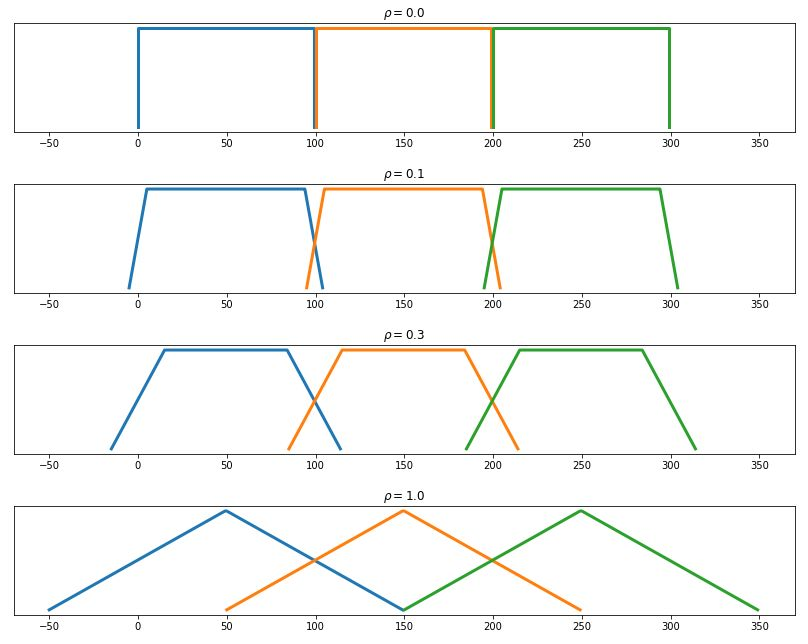
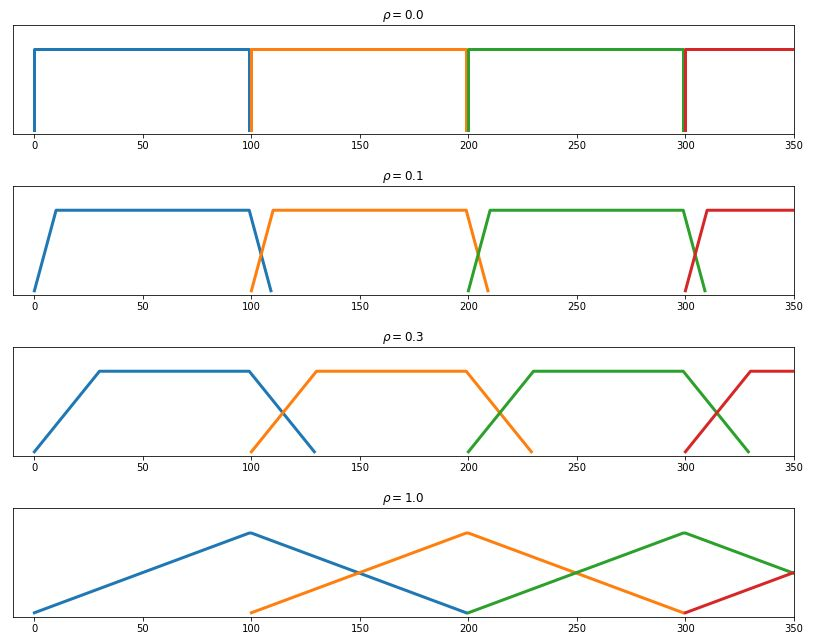
GitBook: [master] one page and 2 assets modified

diff --git a/docs/voice-transformers/granular-synthesis/gs-pre/README.md b/docs/voice-transformers/granular-synthesis/gs-pre/README.md
@@ -19,41 +19,45 @@ Call $$\rho$$the amount of overlap \(as a percentage\) between neighboring grain
 
 ![](../../../.gitbook/assets/grains.jpg)
 
-Note that the stride is constant for any amount of overlap and that each grain is centered at the same instants independently of overlap; this is the key observation that will allow us to implement granular synthesis in real time. 
+Note that the stride is constant for any amount of overlap and that each grain starts at the same instants independently of overlap; this is the key observation that will allow us to implement granular synthesis in real time. 
+
+### The periodic pattern
+
+We can express the content of the $$k$$-th output grain as 
+
+$$
+g_k[m] = x(kS + \alpha m), \qquad 0 \leq m < L
+$$
+
+where $$x(t)$$is the interpolated, continuous-time version of the input signal and $$\alpha$$is the sampling rate change factor \(with $$\alpha < 1$$for subsampling, i.e. lower voice, and $$\alpha > 1$$for upsampling, i.e. higher voice\). In practice we will obviously perform local interpolation rather than full interpolation to continuous time. Note that the $$k$$-th grain starts at $$n=kS$$and is built using input data from $$n=kS$$as well.
+
+The full output signal can be expressed in closed form by looking at the following picture, which shows the periodic pattern of overlapping grains:
+
+![](../../../.gitbook/assets/pattern.jpg)
+
+Any output index $$n$$can be written as 
+
+$$
+n = kS + m, \qquad 0 \leq m < S;
+$$
+
+with this, the output is always the sum of the $$k$$-th grain content at $$m$$plus the content of the previous grain at $$s+m$$; both quantities should be weighed by the tapering window $$w[\cdot]$$:
+
+$$
+y[n] = w[S+m]g_{k-1}[S+m] + w[m]g_k[m]
+$$
 
 ### Darth Vader, Chipmunks and causality
 
 The algorithm that lowers the voice's pitch \(the "Darth Vader" voice transformer\) is strictly causal, that is, at any point in time we only need past input samples to compute the output. This is because lowering the pitch involves _oversampling_ and this operation is itself causal. 
 
-We can look at it this way: in our granular synthesis approach we are filling the output grains with a resampled version of their original content. When we oversample, only a fraction of the grain's data will be used to regenerate its content; if a grain's length is, say, 100, and we are lowering the frequency by 2/3, we will only need 2/3 of the grain's original data to build the new grain. 
+We can look at it this way: in our granular synthesis approach we are filling the output grains with a resampled version of their original content. When we oversample, only a fraction of the grain's data will be used to regenerate its content; if a grain's length is, say, 100, and we are lowering the frequency by $$\alpha=2/3$$, we will only need 2/3 of the grain's original data to build the new grain. 
 
-By contrast, the Chipmunk voice transformers uses local subsampling, that is, samples are being discarded to create an output grain and so, to fill the grain, we will need to "look ahead" and borrow data from beyond the original grain's end boundary. The algorithm therefore is noncausal but, crucially, we can exactly quantify the amount of lookahead and handle that with some buffering. For instance, if we are raising the frequency by 3/2 and our grain length is, say, 100 samples, we will need a buffer of extra 50 samples. This will result in an additional processing delay of 50 samples. 
+By contrast, the Chipmunk voice transformers uses local subsampling, that is, samples are being discarded to create an output grain and so, to fill the grain, we will need to "look ahead" and borrow data from beyond the original grain's end boundary. The algorithm therefore is noncausal but, crucially, we can exactly quantify the amount of lookahead and handle that with some buffering. For instance, if we are raising the frequency by $$\alpha=3/2$$ and our grain length is, say, 100 samples, we will need a buffer of extra 50 samples. This will result in an additional processing delay of 50 samples. 
 
 The difference between over- and under-sampling is clear when we look at the illustration in the notebook that shows the input sample index as a function of the output sample index:
 
 ![input index vs output index for a\) the passthrough, b\) the Chipmunk, c\) Darth Vader](../../../.gitbook/assets/granular.jpg)
 
 We will see in the next section that buffering is required anyway in order to implement overlapping windows, so that the extra buffering required by undersampling will just be an extension of the general setup.
-
-### General formula
-
-$$
-A_k = (k - \rho/2)S
-$$
-
-$$
-g_k[m] = x(kS + \alpha m), \qquad 0 \leq m < L
-$$
-
-$$
-n = kS + m
-$$
-
-then
-
-$$
-y[n] = w[S+m]g_{k-1}[S+m] + w[m]g_k[m]
-$$
-
-
 
